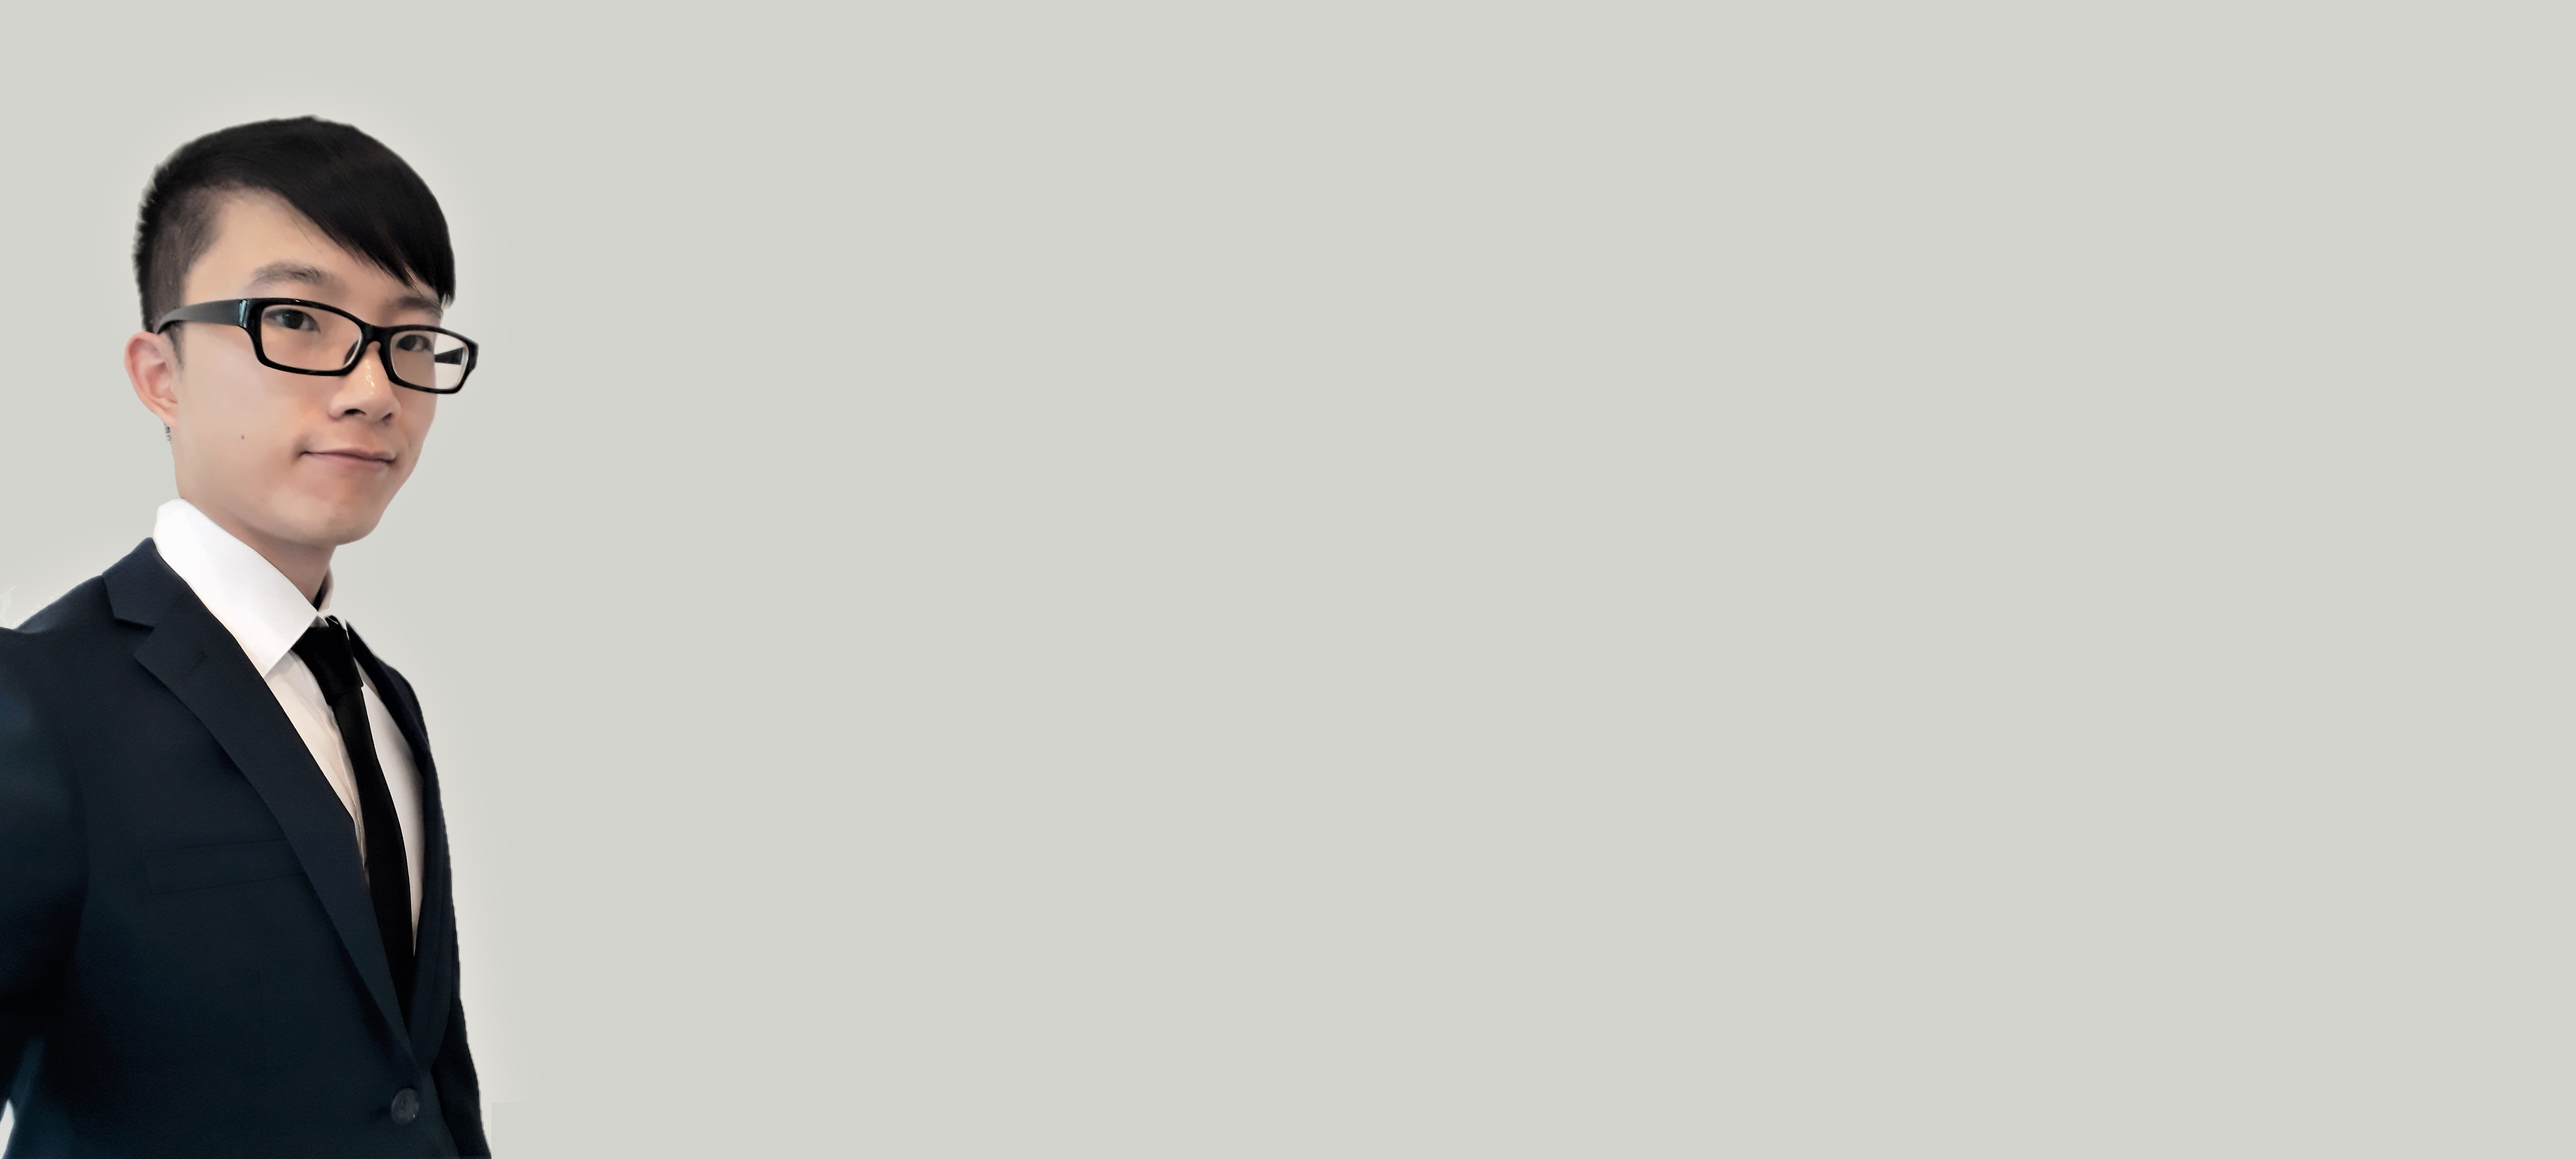
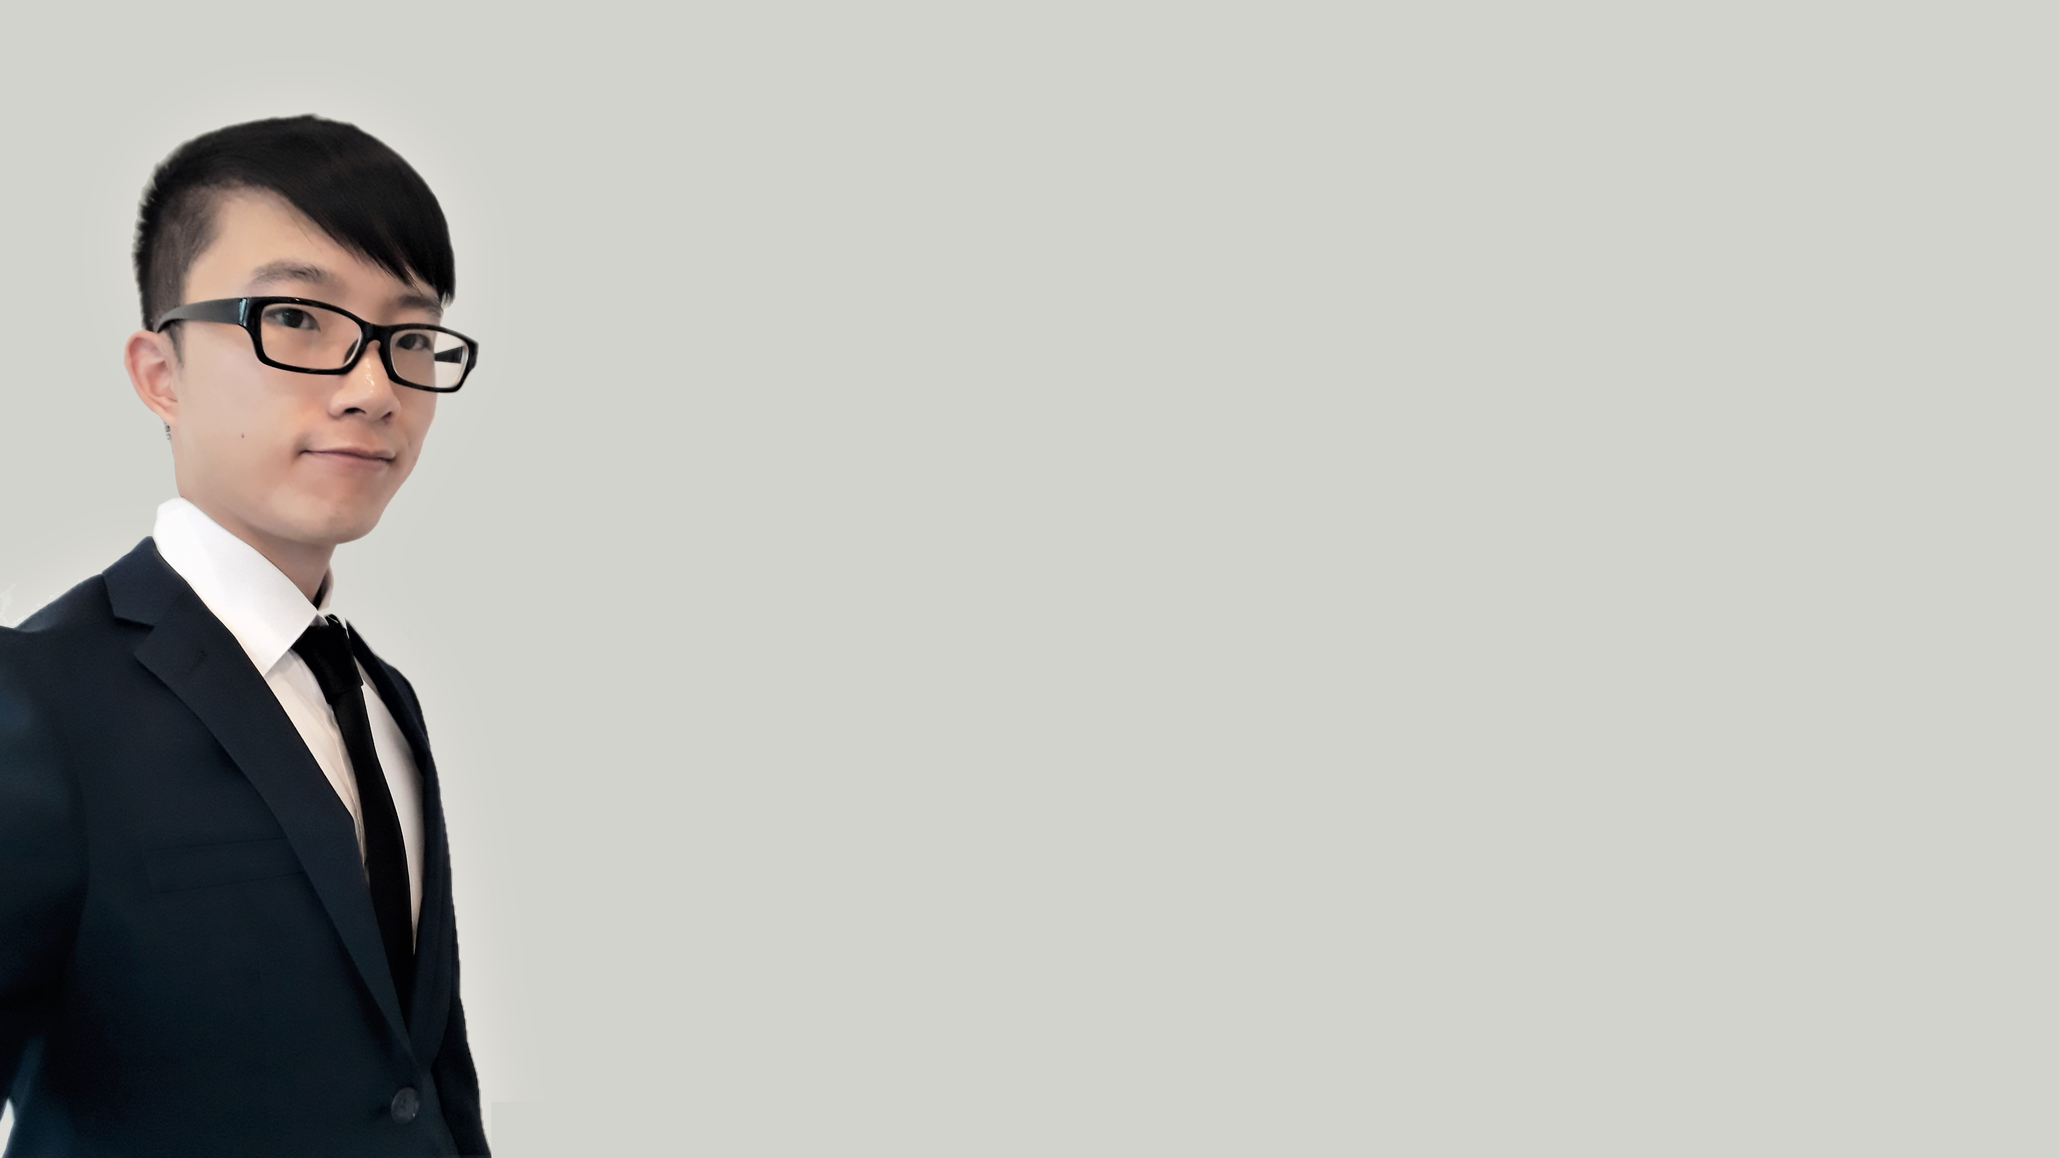
Polish up front page

Changed region(s): [[0.0, 0.0933, 0.2487, 1.0], [0.0, 0.9641, 0.0311, 0.9952]]

diff --git a/stylesheets/styles.css b/stylesheets/styles.css
@@ -1,12 +1,12 @@
 /* TAGS ==================== */
 body {
-  background-color: lavender;
+  background-color: black;
 }
 
 
 /* NAVBAR CLASSES====================== */
 .nav-link:hover {
-  background-color: lavender;
+  background-color: #baf5f4;
 }
 
 .desktop-logo {
@@ -43,7 +43,7 @@ body {
 
 /* FRONT PAGE CLASSES =================== */
 .front-page-img {
-  height: 70vh;
+  height: 75vh;
   background-image: url("../images/bg-img.jpg");
   background-size: cover;
   background-position: left;
@@ -68,28 +68,34 @@ body {
 
 /* For Awkard Tablet Size */
 @media only screen
-  and (min-width : 576px)
+  and (min-width : 670px)
   and (max-width : 991px) {
+    .greeting {
+      transform: translate(45vw, 29vh);
+    }
+
     .greeting h1 {
-      font-size: 3rem;
+      font-size: 3.5rem;
     }
 }
 
 /* For Deskop Size */
 @media only screen and (min-width : 992px) {
   .front-page-img {
-    height: 87vh;
-    background-position: top left;
+    height: 80vh;
+    max-width: 85rem;
+    margin: 0 auto;
   }
 
   .greeting {
-    width: 65vw;
-    transform: translate(30vw, 35vh);
+    width: 40vw;
+    transform: translate(30rem, 29vh);
   }
 
   .greeting h1 {
-    font-size: 5rem;
+    font-size: 4rem;
   }
+
 }
 
 /* PROJECTS PAGE CLASSES =============== */
@@ -256,10 +262,22 @@ body {
 .footer {
   padding: 8rem 2rem 2rem;
   text-align: center;
-  color: white;
+  color: #ddd;
+  background-color: #000;
 }
 
 .footer .fab {
   text-decoration: none;
   margin-bottom: 1rem;
+  color: #ddd;
+}
+
+/* For Deskop Size */
+@media only screen and (min-width : 992px) {
+  .footer.frontpage,
+  .footer.frontpage .fab {
+    color: #8fc4c3;
+    background-color: white;
+  }
+
 }

diff --git a/projects.html b/projects.html
@@ -321,9 +321,9 @@
 
     <!-- FOOTER LINKS ===========================================================-->
     <div class="footer">
-      <a class="text-light"
+      <a class=""
       href="https://www.linkedin.com/in/oscar-ko/" target="_blank"><i class="fab fa-linkedin fa-2x mr-1"></i></a>
-      <a class="text-light"
+      <a class=""
       href="https://github.com/OscarKodes" target="_blank"><i class="fab fa-github fa-2x ml-1"></i></a>
       <p>Website by Oscar Ko</p>
     </div>

diff --git a/index.html b/index.html
@@ -48,10 +48,10 @@
 
 
   <!-- FOOTER LINKS -->
-  <div class="footer">
-    <a class="text-light"
+  <div class="footer frontpage">
+    <a class=""
     href="https://www.linkedin.com/in/oscar-ko/" target="_blank"><i class="fab fa-linkedin fa-2x mr-1"></i></a>
-    <a class="text-light"
+    <a class=""
     href="https://github.com/OscarKodes" target="_blank"><i class="fab fa-github fa-2x ml-1"></i></a>
     <p>Website by Oscar Ko</p>
   </div>

diff --git a/skill-set.html b/skill-set.html
@@ -91,9 +91,9 @@
 
   <!-- FOOTER LINKS -->
   <div class="footer">
-    <a class="text-light"
+    <a class=""
     href="https://www.linkedin.com/in/oscar-ko/" target="_blank"><i class="fab fa-linkedin fa-2x mr-1"></i></a>
-    <a class="text-light"
+    <a class=""
     href="https://github.com/OscarKodes" target="_blank"><i class="fab fa-github fa-2x ml-1"></i></a>
     <p>Website by Oscar Ko</p>
   </div>

diff --git a/contact.html b/contact.html
@@ -71,9 +71,9 @@
 
 <!-- FOOTER LINKS -->
 <div class="footer">
-  <a class="text-light"
+  <a class=""
   href="https://www.linkedin.com/in/oscar-ko/" target="_blank"><i class="fab fa-linkedin fa-2x mr-1"></i></a>
-  <a class="text-light"
+  <a class=""
   href="https://github.com/OscarKodes" target="_blank"><i class="fab fa-github fa-2x ml-1"></i></a>
   <p>Website by Oscar Ko</p>
 </div>
